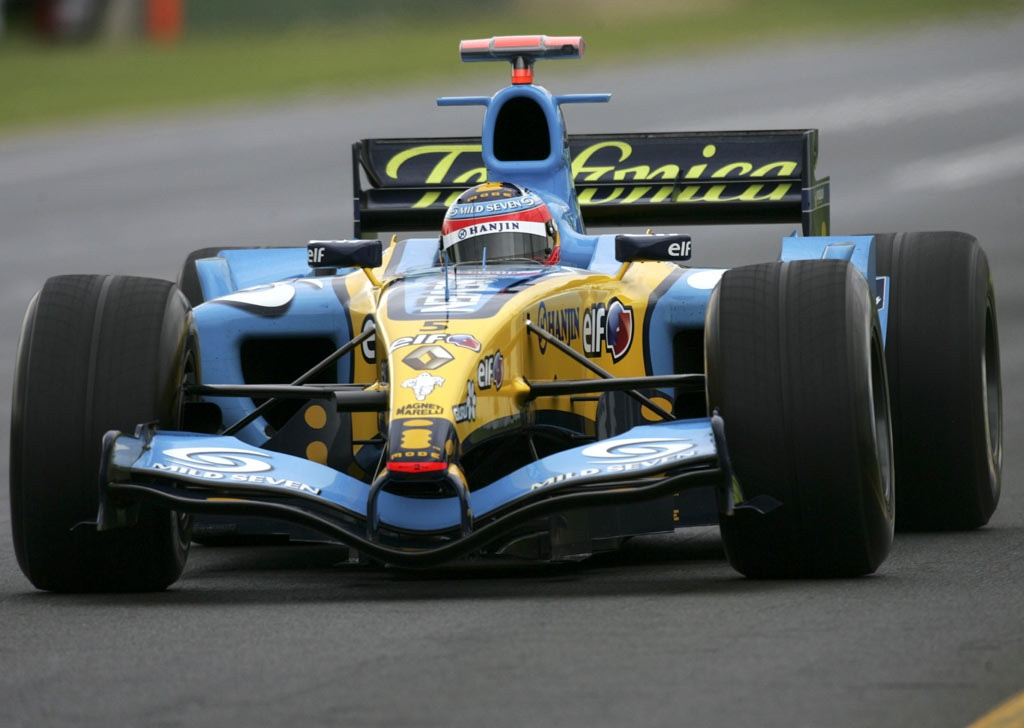
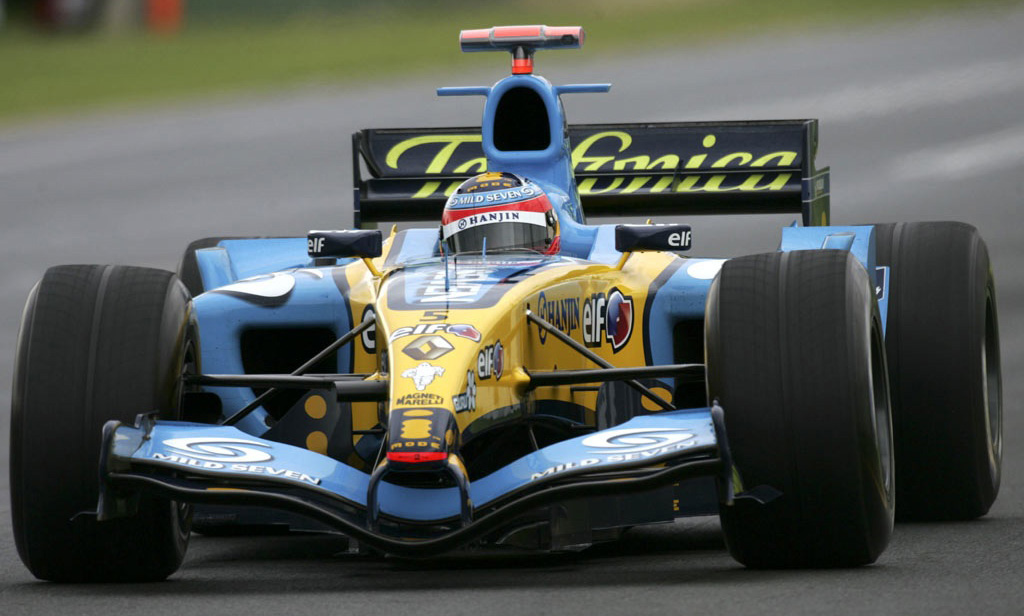
better images

diff --git a/src/assets/images/cars/index.ts b/src/assets/images/cars/index.ts
@@ -2,8 +2,8 @@ import carImage2005 from "./2005.jpg";
 import carImage2006 from "./2006.png";
 import carImage2007 from "./2007.jpg";
 import carImage2008 from "./2008.jpg";
-import carImage2009 from "./2009.jpg";
-import carImage2010 from "./2010.jpg";
+import carImage2009 from "./2009.png";
+import carImage2010 from "./2010.png";
 import carImage2011 from "./2011.png";
 import carImage2012 from "./2012.png";
 import carImage2013 from "./2013.png";
